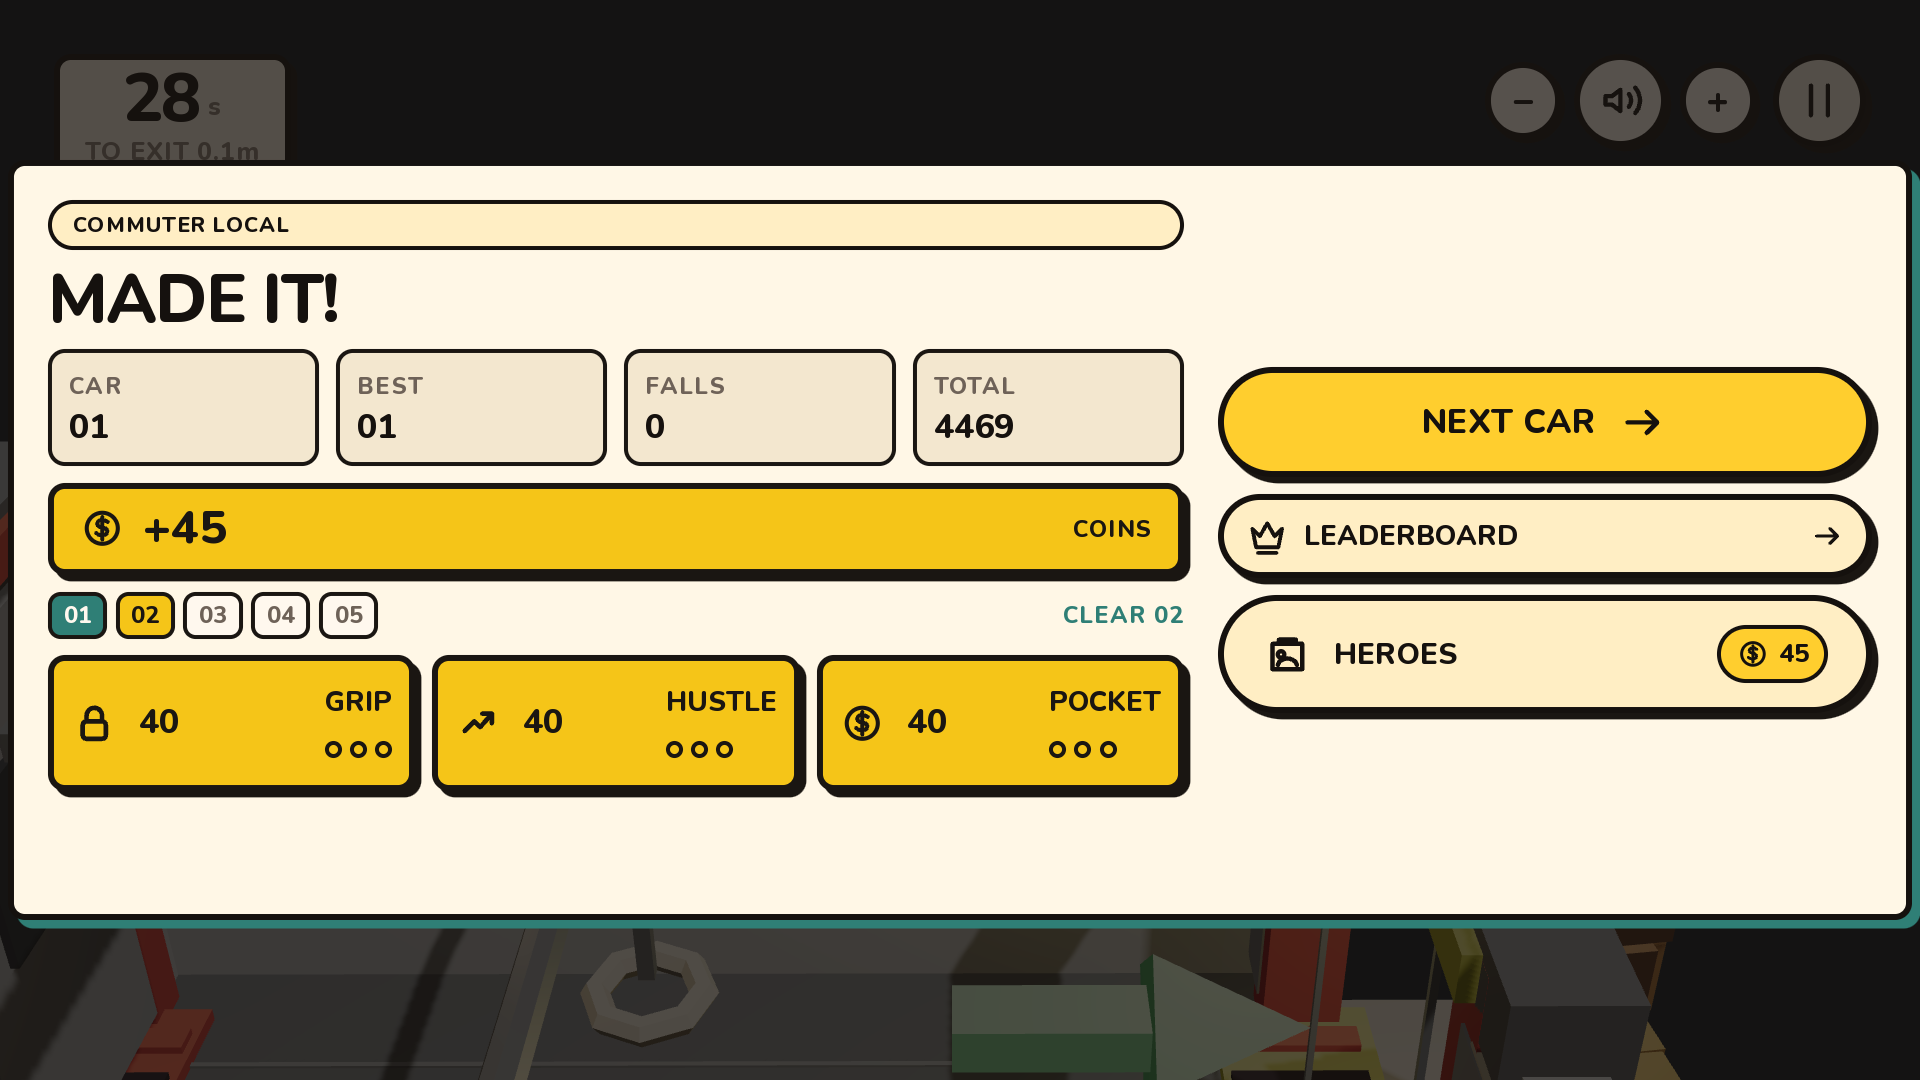
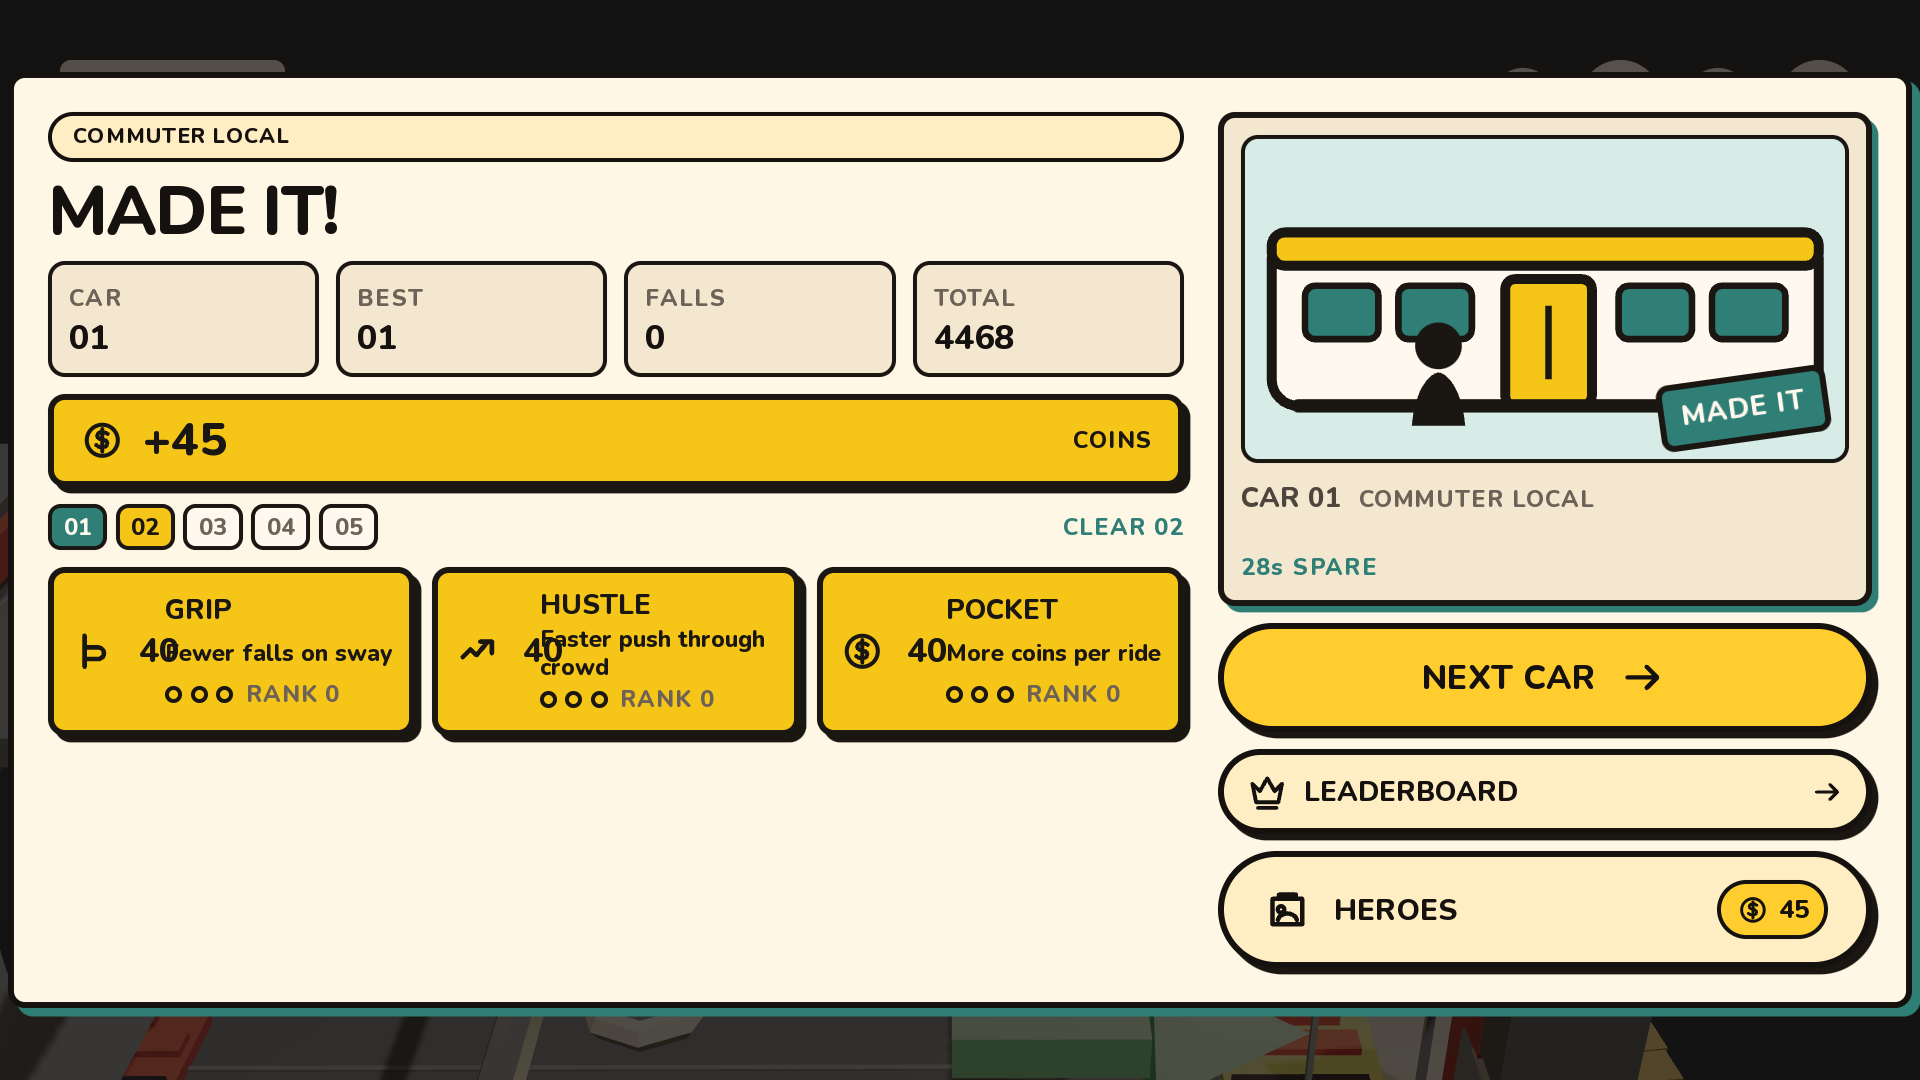
Replace the guest review frames with the filled result cards.
Made and missed cards at 800, 907, and 1920, plus keyboard clears of cars 03 and 05 and the upgrade close-up. Before frames stay the master build.

diff --git a/README.md b/README.md
@@ -7,4 +7,4 @@ Captured from the guest build at devicePixelRatio 1.
 
 Each size has a start frame, one tutorial step, a mid-car frame, a MADE IT card, and a MISSED IT card. 800×450 has start, made, and missed.
 
-The made card is a real keyboard clear of car 01 with no seeded best (BEST 01, +45 coins). The missed card is a seeded save so the upgrades show one price you cannot afford (grip 90) and two you can (hustle and pocket 40), plus NEXT CAR 02.
+The 907 made card is a keyboard clear of car 01 (28s spare on a 32s clock). `after-907-missed` is a brand-new save's first miss. `after-907-missed-seeded` is a save where grip costs 90 and the other two upgrades cost 40. `after-907-car03-made` and `after-907-car05-made` are keyboard clears of those cars. `after-907-upgrades-close` is the upgrade row on the seeded miss, with the lock only on the unaffordable grip button.
